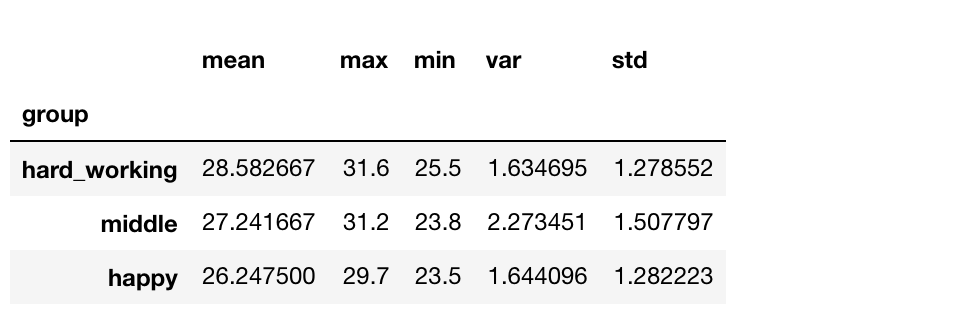
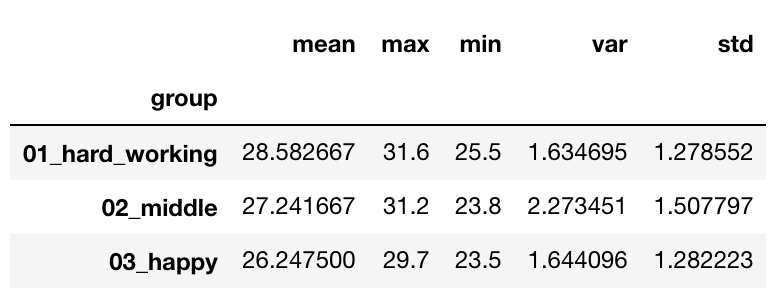
update Pivot table group name and explanation of `missing` value

diff --git a/notes-week-08.md b/notes-week-08.md
@@ -584,11 +584,11 @@ We name the `absent rate <1` as `hardworking group`,`absent rate 1<=rate<3` as `
 ```python
 def discretise(x):
     if x <= 1:
-        x = 'hard_working'
+        x = '01_hard_working'
     elif x > 1 and x <= 3:
-        x = 'middle'
+        x = '02_middle'
     elif x > 3:
-        x = 'happy'
+        x = '03_happy'
     return x
 f = ['mean','max','min','var','std']
 df['group'] = df['P_ABSENT_PERSIST'].apply(discretise)
@@ -616,16 +616,6 @@ df['grade_10'] = df['AVG_ENG_MATH_SCORE_10'].apply(discretise)
 
 For example, to see whether higher score07 leads to higher score10?
 
-<!-- TODO：
-    Not a conventional use of pivot table.
-
-    The current way basically **enumerates the data points** because school name is supposed to be unique.
-    
-    Try: 
-    
-    df.pivot_table(index=['grade_07'], columns=['grade_10'], values='Schoolme', aggfunc='count')
--->
-
 ```python
 df.pivot_table(index=['grade_07'], columns=['grade_10'], values='Schoolme', aggfunc='count')
 ```
@@ -648,12 +638,29 @@ Q3: Does higher score07 and score08 leads to higher score10?
 
 ```python
 df.pivot_table(index=['grade_07','grade_08'], columns=['grade_10'], values='Schoolme', aggfunc='count')
-rate = a / b
 ```
 
 ![Pivot table](assets/pivot-table3.png)
 
 The results show highly correlation in this hypothesis. Students in year 7 and year 8 with grade higher than B, and at least one A, is more likely to get A in year 10. About 53/70 = 76%.
+
+**Note:** From the Q2 question, we can know that there are 33 got C, but from this chart, we can only got 18 C. What happened here? The reason here is that 13 of  students' grade in year 10 is NaN.
+
+```python
+len(df[(df['grade_08'] == 'C') & (df['grade_10'].isnull())])
+#output: 13
+```
+
+<!-- TODO: 
+There is still one error, the above results in total is 31, still missing 2 students. I filter out all students with grade C in year 8 and what the grade they got in year 10. And found out there is missing 1 count in df['grade_10'] == 'B' and df['grade_10'] == 'A'. But why this is happening?
+
+len(df[(df['grade_08'] == 'C') & (df['grade_10'] == 'C')])
+10
+len(df[(df['grade_08'] == 'C') & (df['grade_10'] == 'B')])
+7
+len(df[(df['grade_08'] == 'C') & (df['grade_10'] == 'A')])
+3
+-->
 
 An interesting point here, the abnormal one is that 3 schools' students with grade C in year 7 and year 8 got A in year 10. What happened to those schools?  We can filter out those schools.
 
@@ -664,22 +671,6 @@ df[(df['grade_07']=='C') & (df['grade_08']=='C') & (df['grade_10']=='A')]
 ![Pivot table abnormal](assets/pivot-table-abnormal.png)
 
 After we got those school names and address, next thing is to investigate on the stories behind the data.
-
-<!-- TODO: 
-    1) Discretise multiple columns:
-    - core07, score08, ... score10 ✅
-    - absent ratio ✅
-    - total number of pupil  ❓what does this mean???
-    
-    Update 1108: TotPup -- Total pupil (pupil means "student in primary school")
-    Update 1108: TotElig -- Total eligible (not all pupil is eligible to attend the test)
-    
-
-    2) Use pandas.pivot_table to generate crosstabs. Some motivating questions:
-    - does higher score07 leads to higher score10? ✅
-    - does lower absent ratio leads to higher score08? ✅
-    - does higher score07 and score08 leads to higher score10?
--->
 
 ### From correlation to causality
 
